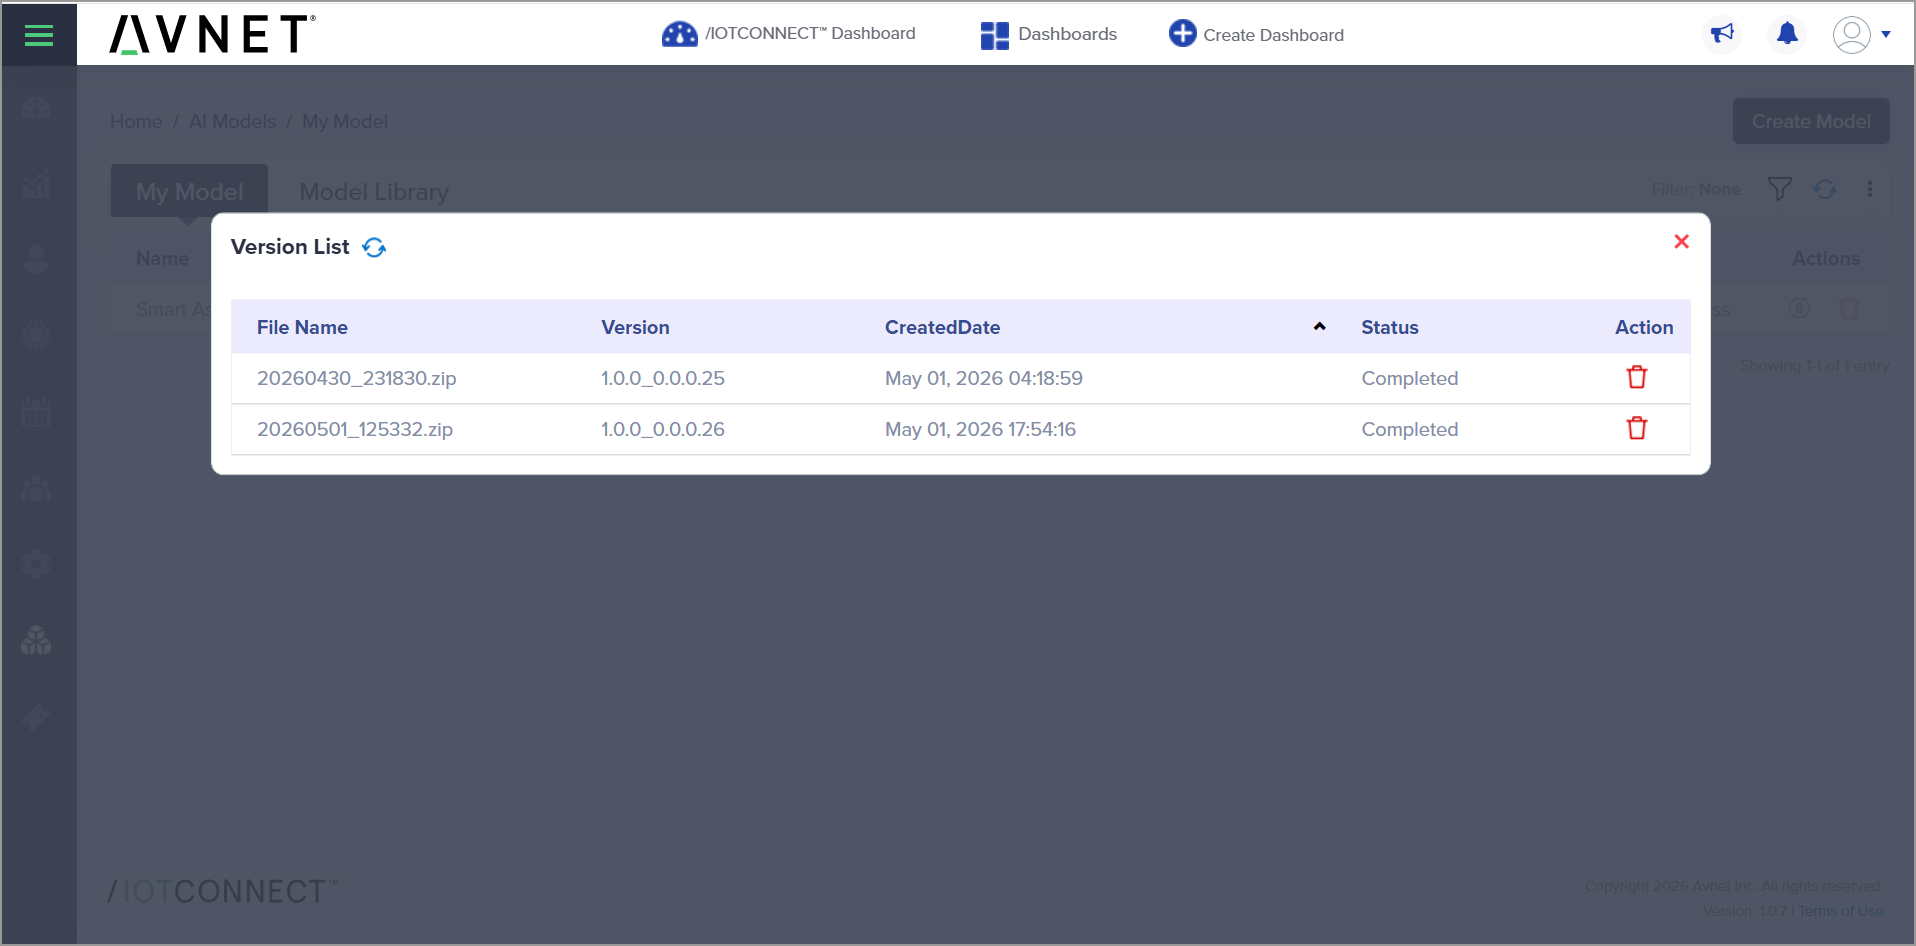
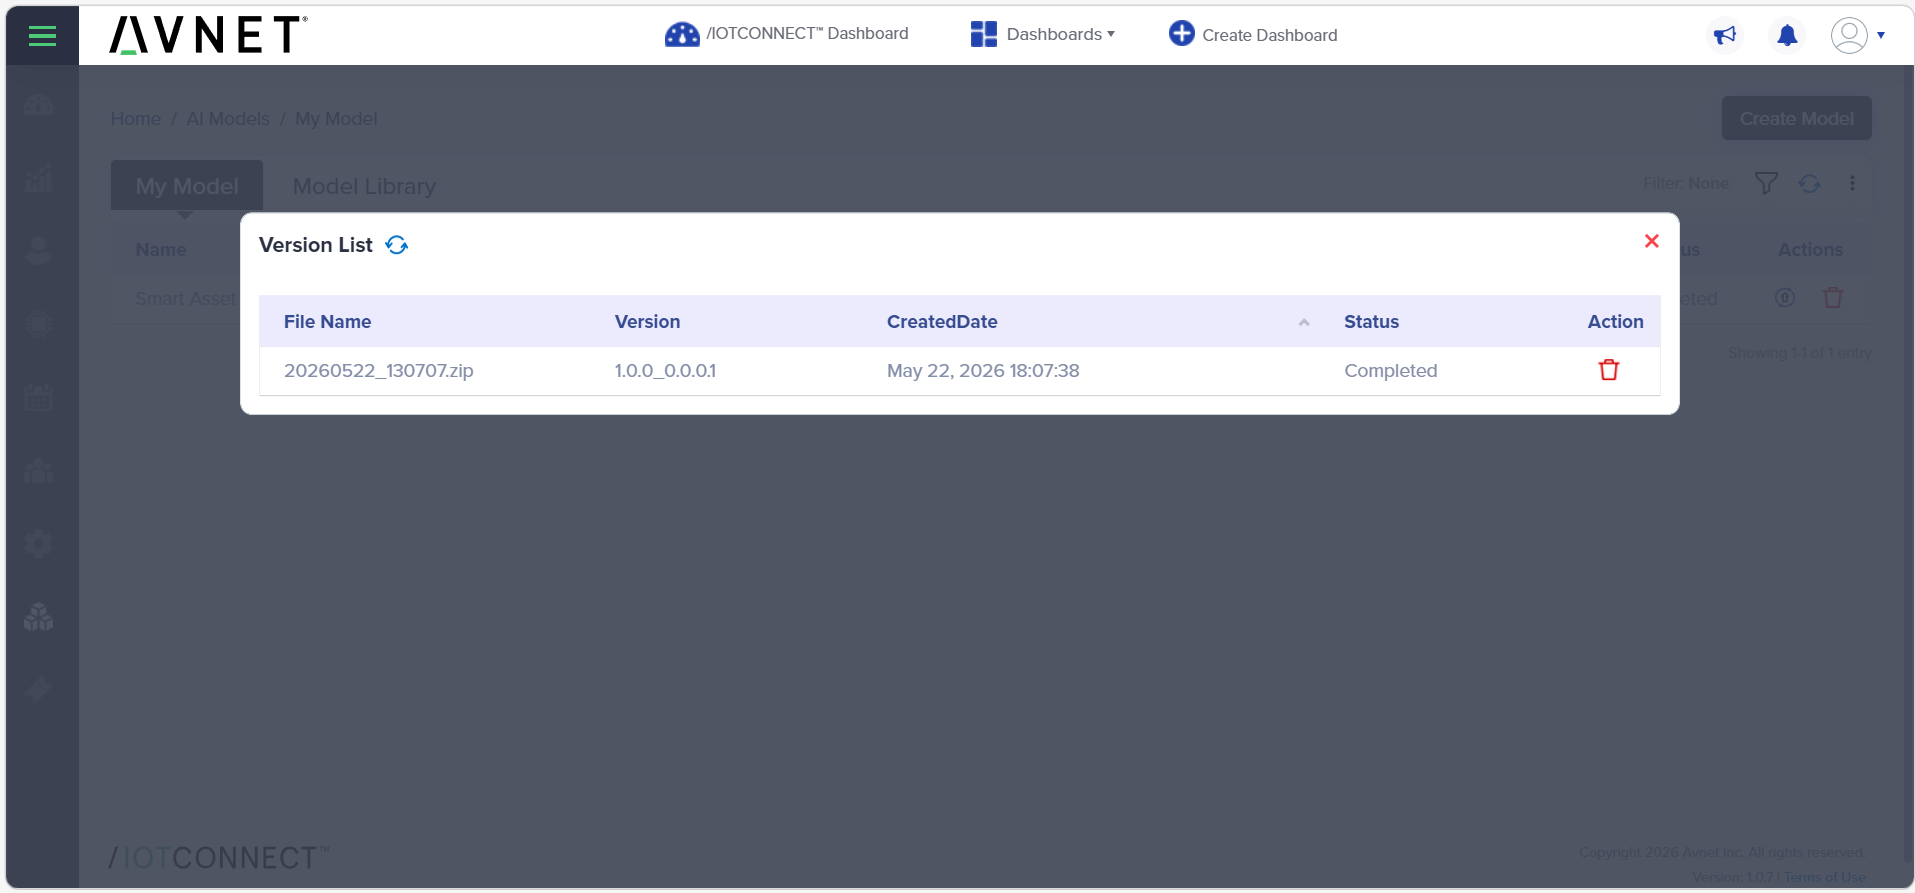
Annotate the Find Your Trained Model walkthrough images
- Replace 47_my_model_menu.png with an annotated version that boxes
  the 'AI Model' option under the AI Models submenu, so the click
  target is unambiguous.
- Replace 49_my_model.png with an annotated version that boxes the
  'Latest Version' link in the My Model row, and update the prose to
  say 'click the Latest Version' instead of 'click the version number'.
- Refresh 48_version_list.png with a cleaner Version List dialog
  capture and rephrase Step 3 to describe what the dialog shows.

diff --git a/st_aiotcraft_lab2_train.md b/st_aiotcraft_lab2_train.md
@@ -120,15 +120,15 @@ To find the upload in /IOTCONNECT, open your device's Device Info page and click
 
 When AIoT Craft finishes training (typically ~30 seconds after the upload is accepted), a new entry appears in your AI Model library — distinct from the read-only **Model Library** used in **Lab 1 Step 10**, this is the **My Model** list of models trained on your own data.
 
-1. From the left menu open **AI Models → AI Model**.
+1. From the left menu, click the **AI Models** icon and then **AI Model** (highlighted below).
 
-   <img src="images/st_aiotcraft/47_my_model_menu.png" alt="AI Models → AI Model" width="700"/>
+   <img src="images/st_aiotcraft/47_my_model_menu_annotated.png" alt="AI Models → AI Model" width="700"/>
 
-2. Your trained model shows up in the **My Model** tab as soon as training completes — typically within ~30 seconds. Status reads **Completed** when it's ready to push.
+2. Your trained model shows up in the **My Model** tab as soon as training completes — typically within ~30 seconds. Status reads **Completed** when it's ready to push. Click the **Latest Version** (highlighted below) to open the training-run details.
 
-   <img src="images/st_aiotcraft/49_my_model.png" alt="My Model list" width="700"/>
+   <img src="images/st_aiotcraft/49_my_model_annotated.png" alt="My Model list — click the Latest Version link" width="700"/>
 
-3. Click the version number to see every training run AIoT Craft has produced for this model — useful when you've captured multiple datasets and want to compare or roll back.
+3. The **Version List** dialog opens, listing every training run AIoT Craft has produced for this model — useful when you've captured multiple datasets and want to compare or roll back. Each row shows the file name, version, creation date, and a **Completed** status when ready.
 
    <img src="images/st_aiotcraft/48_version_list.png" alt="Version List" width="700"/>
 

diff --git a/st_aiotcraft_guide.md b/st_aiotcraft_guide.md
@@ -439,15 +439,15 @@ To find the upload in /IOTCONNECT, open your device's Device Info page and click
 
 When AIoT Craft finishes training (typically ~30 seconds after the upload is accepted), a new entry appears in your AI Model library — distinct from the read-only **Model Library** used in **Step 10**, this is the **My Model** list of models trained on your own data.
 
-1. From the left menu open **AI Models → AI Model**.
+1. From the left menu, click the **AI Models** icon and then **AI Model** (highlighted below).
 
-   <img src="images/st_aiotcraft/47_my_model_menu.png" alt="AI Models → AI Model" width="700"/>
+   <img src="images/st_aiotcraft/47_my_model_menu_annotated.png" alt="AI Models → AI Model" width="700"/>
 
-2. Your trained model shows up in the **My Model** tab as soon as training completes — typically within ~30 seconds. Status reads **Completed** when it's ready to push.
+2. Your trained model shows up in the **My Model** tab as soon as training completes — typically within ~30 seconds. Status reads **Completed** when it's ready to push. Click the **Latest Version** (highlighted below) to open the training-run details.
 
-   <img src="images/st_aiotcraft/49_my_model.png" alt="My Model list" width="700"/>
+   <img src="images/st_aiotcraft/49_my_model_annotated.png" alt="My Model list — click the Latest Version link" width="700"/>
 
-3. Click the version number to see every training run AIoT Craft has produced for this model — useful when you've captured multiple datasets and want to compare or roll back.
+3. The **Version List** dialog opens, listing every training run AIoT Craft has produced for this model — useful when you've captured multiple datasets and want to compare or roll back. Each row shows the file name, version, creation date, and a **Completed** status when ready.
 
    <img src="images/st_aiotcraft/48_version_list.png" alt="Version List" width="700"/>
 
